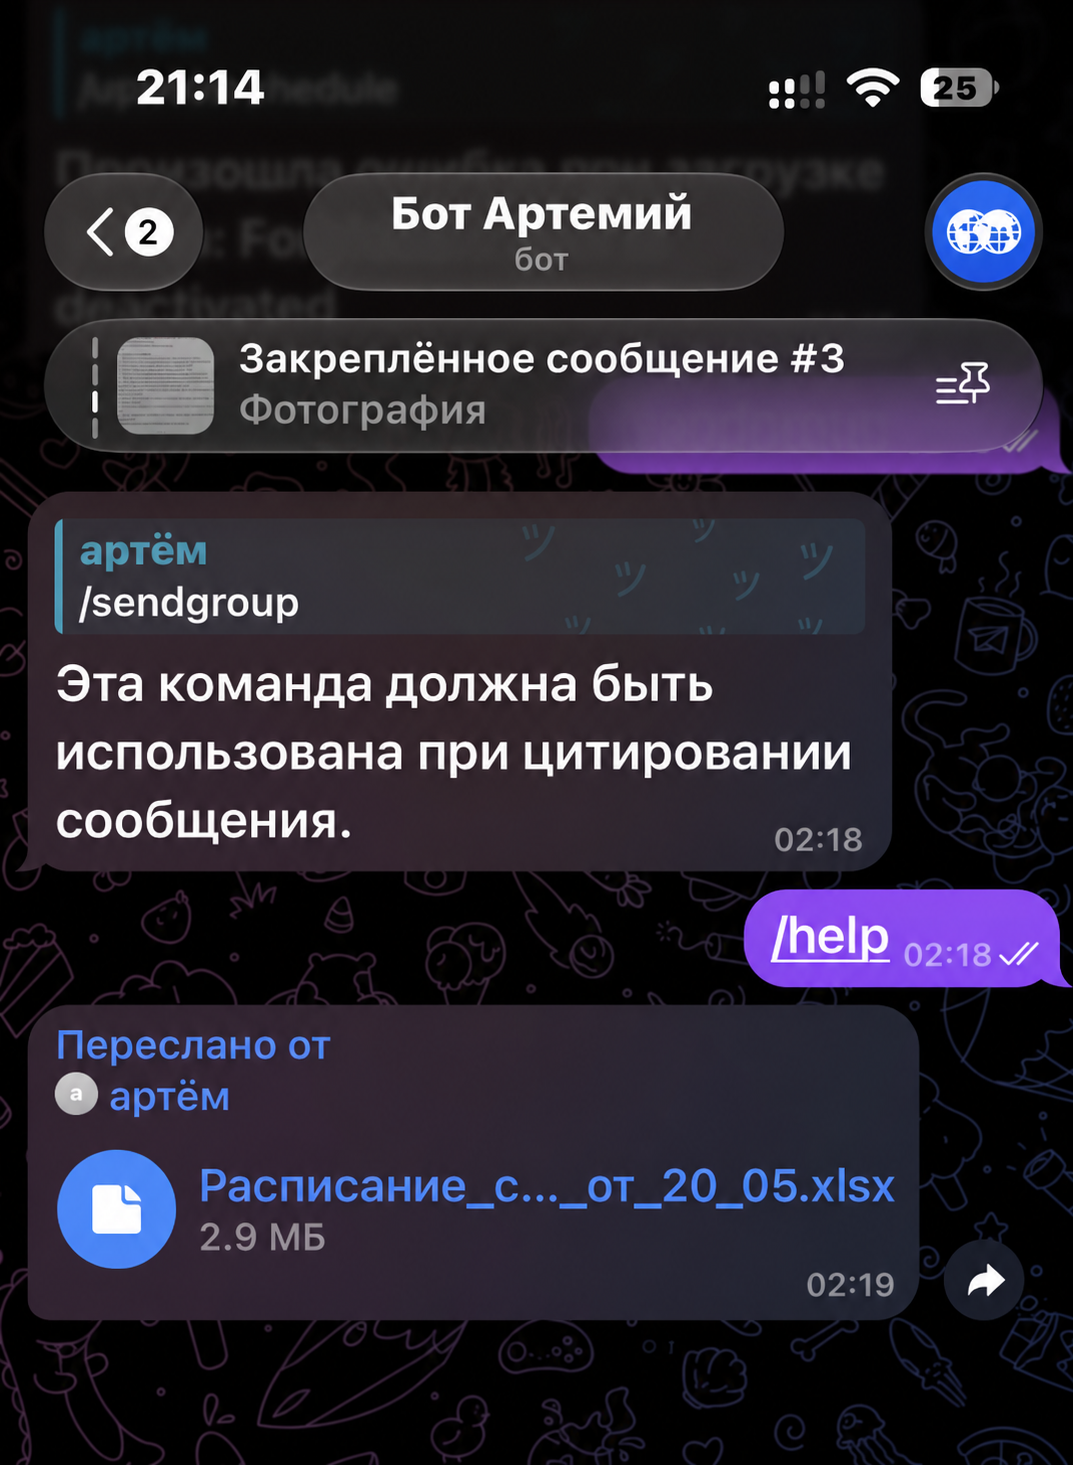
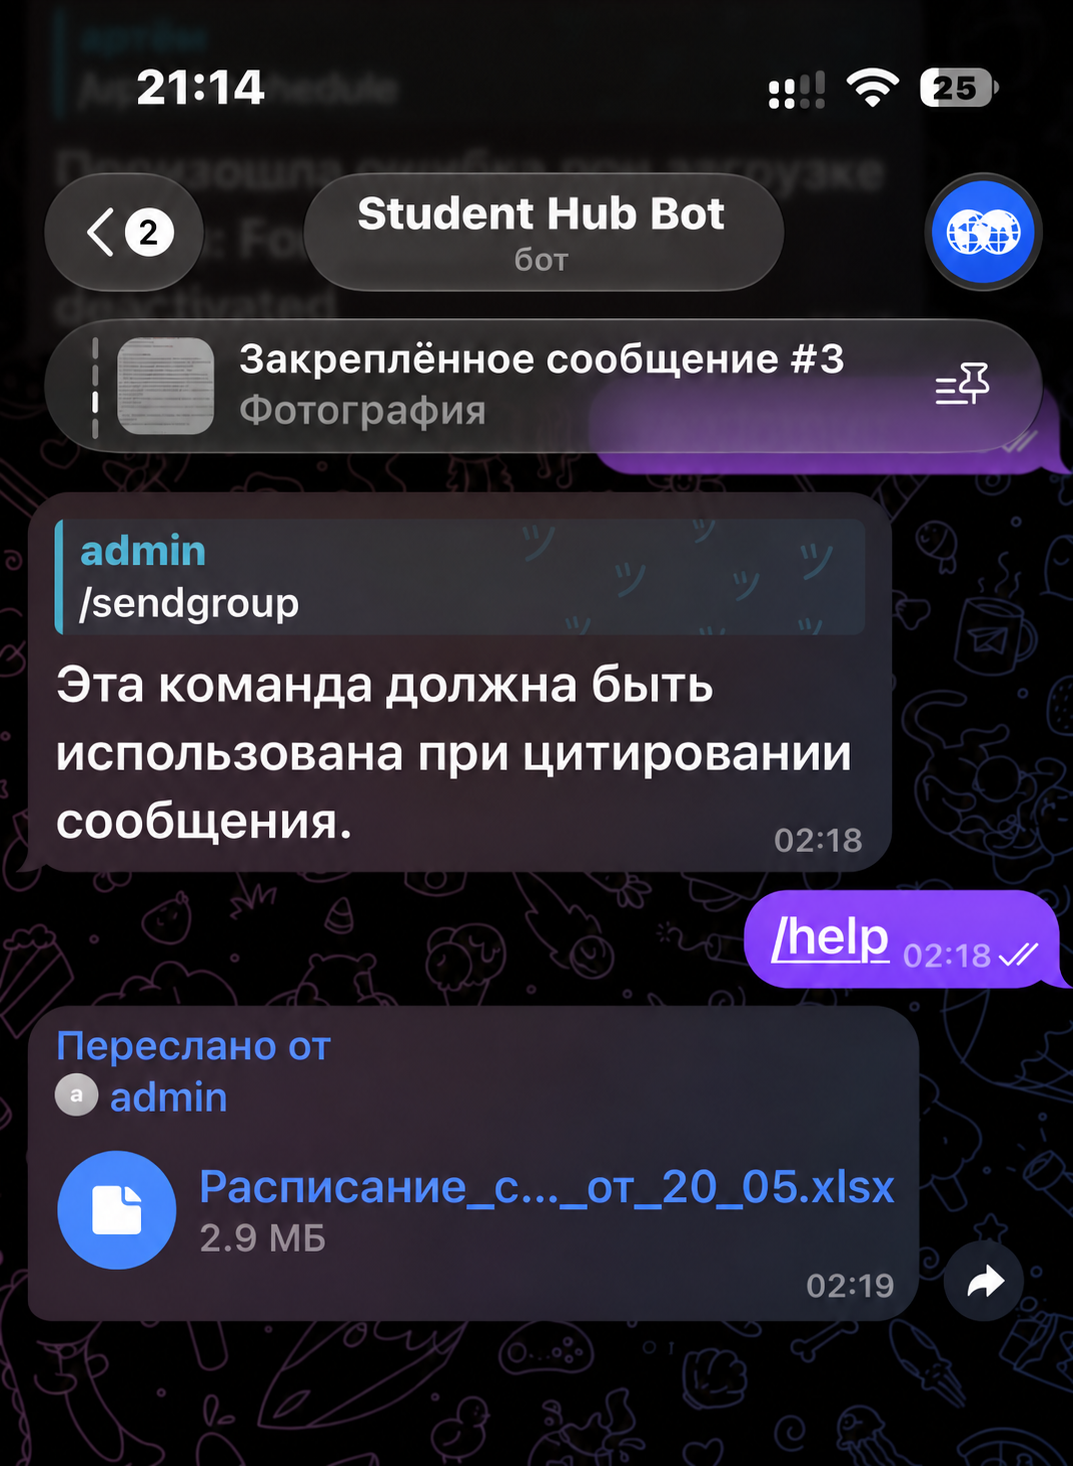
Generalize university-specific portfolio details

diff --git a/src/bot.py b/src/bot.py
@@ -25,7 +25,7 @@ dp = Dispatcher(bot, storage=storage)
 
 MAX_SCORE = 30
 ADMIN_ID = int(os.getenv("ADMIN_ID", "0"))
-COMMITTEE_CHAT_ID = int(os.getenv("COMMITTEE_CHAT_ID", "0"))
+TASKS_CHAT_ID = int(os.getenv("TASKS_CHAT_ID", "0"))
 MAX_STREAMS_PER_USER = 5
 INVITE_EXPIRATION = timedelta(days=1)
 DATA_DIRECTORY = os.getenv("DATA_DIR", "data")
@@ -37,7 +37,10 @@ students_file = os.path.join(DATA_DIRECTORY, "students.json")
 mailing_file = os.path.join(DATA_DIRECTORY, "mailing.json")
 # Директория для хранения файла расписания
 SCHEDULE_DIRECTORY = os.getenv("SCHEDULE_DIR", "schedule")
-SCHEDULE_FILENAME = os.path.join(SCHEDULE_DIRECTORY, "Расписание УМЦ.xlsx")  # Пример, можно изменить расширение
+SCHEDULE_FILENAME = os.path.join(
+    SCHEDULE_DIRECTORY,
+    os.getenv("SCHEDULE_FILENAME", "schedule.xlsx"),
+)
 
 # Убедитесь, что директория для хранения файла существует
 if not os.path.exists(SCHEDULE_DIRECTORY):
@@ -153,7 +156,7 @@ async def add_work(message: types.Message):
     if message.from_user.id != ADMIN_ID:
         await message.reply("У вас нет прав для выполнения этой команды.")
         return
-    if not COMMITTEE_CHAT_ID:
+    if not TASKS_CHAT_ID:
         await message.reply("Чат для публикации заданий не настроен.")
         return
 
@@ -181,7 +184,7 @@ async def add_work(message: types.Message):
     markup = InlineKeyboardMarkup().add(
         InlineKeyboardButton("Откликнуться", callback_data=f"respond_work:{work_id}")
     )
-    work_msg = await bot.send_message(COMMITTEE_CHAT_ID, work_message, reply_markup=markup)
+    work_msg = await bot.send_message(TASKS_CHAT_ID, work_message, reply_markup=markup)
     active_works[work_id] = {
         'message_id': work_msg.message_id,
         'task': task_text,
@@ -207,20 +210,20 @@ async def handle_response(callback: types.CallbackQuery):
     work['responses'].append(user_key)
     display_name = callback.from_user.username or callback.from_user.full_name
     await bot.send_message(
-        COMMITTEE_CHAT_ID,
+        TASKS_CHAT_ID,
         f"{display_name} откликнулся(-ась) на задание: {work['task']}",
     )
 
     if len(work['responses']) >= work['max_responses']:
         try:
             await bot.edit_message_reply_markup(
-                COMMITTEE_CHAT_ID,
+                TASKS_CHAT_ID,
                 work['message_id'],
                 reply_markup=None,
             )
         except MessageNotModified:
             pass
-        await bot.send_message(COMMITTEE_CHAT_ID, "Приём откликов завершён.")
+        await bot.send_message(TASKS_CHAT_ID, "Приём откликов завершён.")
 
     await callback.answer("Вы откликнулись на задание!")
 

diff --git a/README.md b/README.md
@@ -2,7 +2,7 @@
 
 Telegram-прототип единого учебного пространства для студентов: расписание, учебные рассылки, мероприятия и управление группами прямо в мессенджере.
 
-> Архивный pet-project 2024–2025 годов. Это очищенная портфолио-версия реально использовавшегося MVP, а не официальная интеграция с информационной системой вуза.
+> Архивный pet-project 2024–2025 годов. Это очищенная портфолио-версия реально использовавшегося MVP, а не официальная интеграция с информационной системой конкретного учебного заведения.
 
 ## Задача
 
@@ -24,7 +24,7 @@ Telegram-прототип единого учебного пространств
 
 ## Интерфейс прототипа
 
-Исторические скриншоты показывают два рабочих сценария: публикацию актуального расписания и подготовку групповой рассылки. Публичные версии кадрированы так, чтобы в них не осталось ФИО студентов, Telegram ID и результатов обучения.
+Исторические скриншоты показывают два рабочих сценария: публикацию актуального расписания и подготовку групповой рассылки. Для публичной версии они обезличены: ФИО, Telegram ID и название учебного заведения удалены, а служебные подписи заменены нейтральными без изменения смысла сценариев.
 
 | Расписание | Групповая рассылка |
 | --- | --- |
@@ -72,7 +72,7 @@ cp data/scores.example.json data/scores.json
 cp data/streams.example.json data/streams.json
 ```
 
-`COMMITTEE_CHAT_ID` нужен только для экспериментального сценария публикации заданий. Если оставить значение `0`, команда `/addwork` будет недоступна, а остальные функции продолжат работать.
+`TASKS_CHAT_ID` нужен только для экспериментального сценария публикации заданий. Если оставить значение `0`, команда `/addwork` будет недоступна, а остальные функции продолжат работать. Имя файла расписания также настраивается через `SCHEDULE_FILENAME`.
 
 ## Основные команды
 
@@ -95,7 +95,7 @@ cp data/streams.example.json data/streams.json
 ## Ограничения прототипа
 
 - один процесс и файловое хранилище вместо базы данных;
-- нет веб-интерфейса и интеграции с электронным журналом вуза;
+- нет веб-интерфейса и интеграции с внешней системой электронного журнала;
 - ролевая модель упрощена для MVP;
 - нужны миграции, тесты, аудит доступов и мониторинг для production-использования.
 - исторический стек `aiogram 2.x` требует Python 3.10 или 3.11; миграция на `aiogram 3.x` оставлена за рамками архивной версии.
